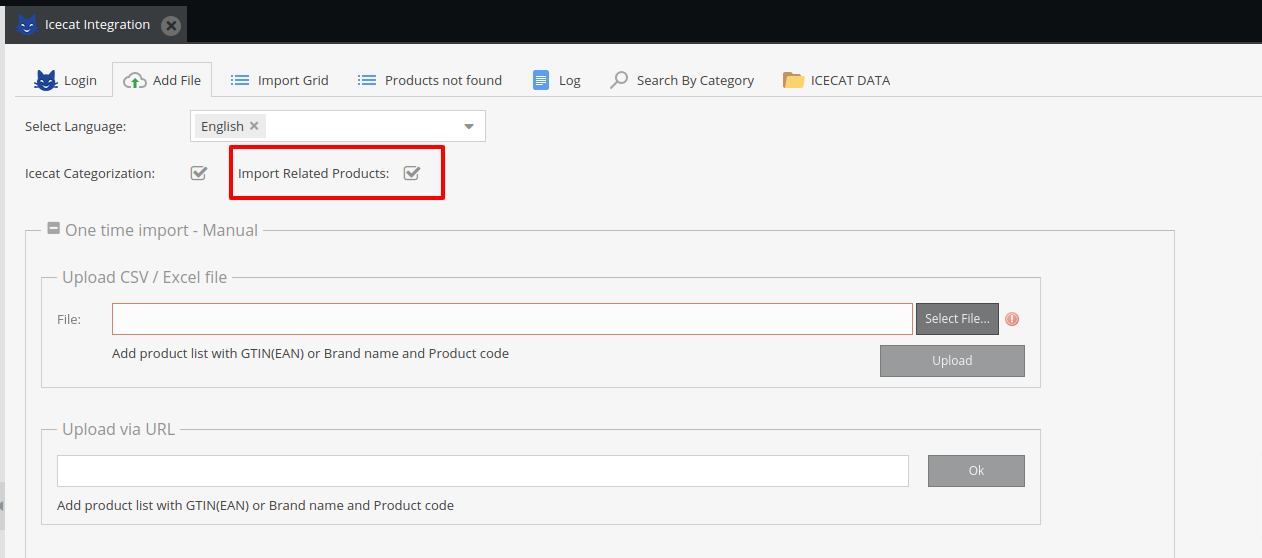
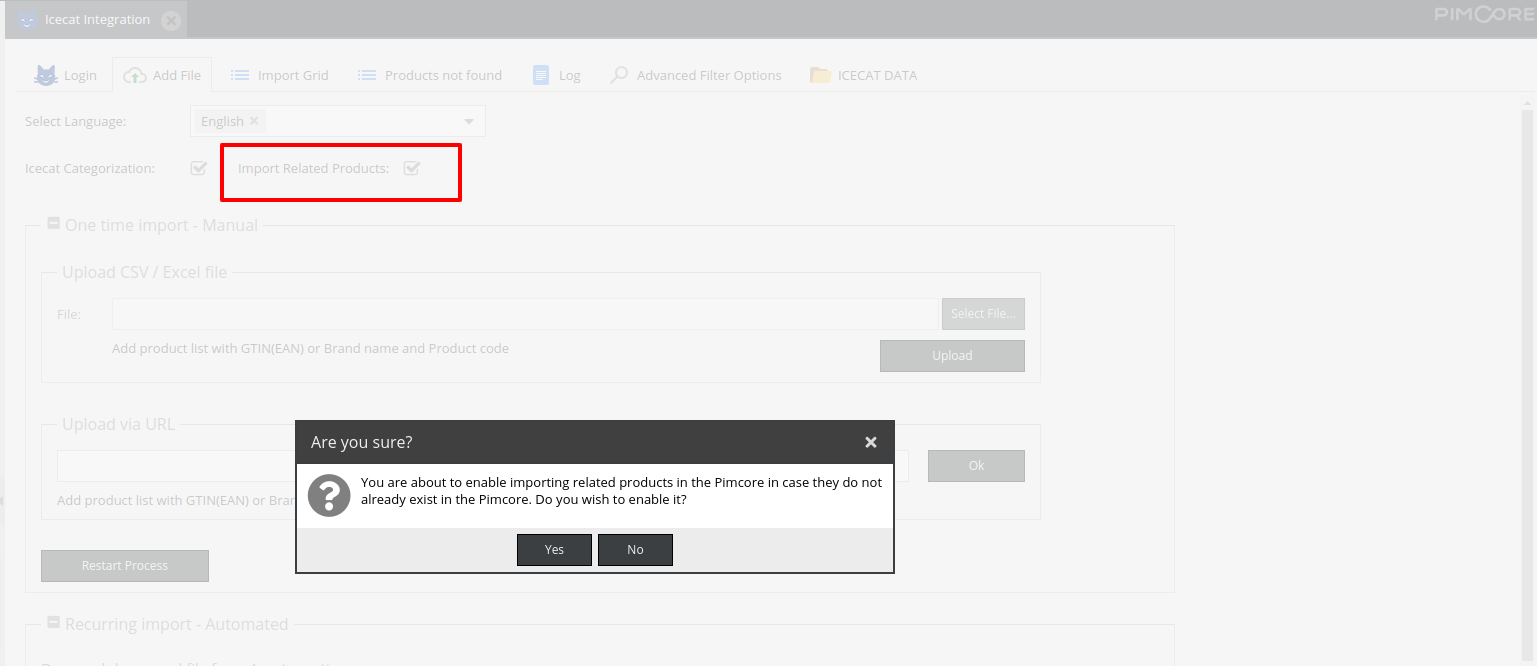
documentaion for v3

diff --git a/src/Resources/public/js/pimcore/helper.js b/src/Resources/public/js/pimcore/helper.js
@@ -1,14 +1,11 @@
 pimcore.registerNS("pimcore.plugin.iceCatHelper");
 pimcore.plugin.iceCatHelper = Class.create({
     initialize: function (parent) {
-        // this.getPanel();
         this.uploadPanel = new pimcore.plugin.iceCatUploadFilePanel();
         this.importGridPanel = new pimcore.plugin.iceCatImportGridPanel();
-        // this.runningProcessesPanel = new pimcore.plugin.iceCatRunningProcessesPanel();
         this.unfetchedProductGrid = new pimcore.plugin.unfetchedProductGrid();
         this.applicationLogGridPanel = new pimcore.plugin.iceCatApplicationLogGridPanel();
         this.searchPanel = new pimcore.plugin.iceCatSearchPanel(this.uploadPanel);
-        //this.cronPanel = new pimcore.plugin.iceCatCronPanelPanel();
     },
     addFileTabIndex: 1,
     intervalObj: '',
@@ -29,28 +26,28 @@ pimcore.plugin.iceCatHelper = Class.create({
             ufp.add(this.applicationLogGridPanel.getTabPanel());
         }
 
-        // if (!ufp.child('#iceCatBundle_cronPanel')) {
-        //     ufp.add(this.cronPanel.getPanel());
+        // if(this.uploadPanel.getConfigData() && this.uploadPanel.getConfigData().showSearchPanel !== "undefined" 
+        // && this.uploadPanel.getConfigData().showSearchPanel) {
+        //     if (!ufp.child('#iceCatBundle_searchPanel')) {
+        //         ufp.add(this.searchPanel.getPanel());
+        //     }
         // }
-
-        if(this.uploadPanel.getConfigData() && this.uploadPanel.getConfigData().showSearchPanel !== "undefined" 
-        && this.uploadPanel.getConfigData().showSearchPanel) {
-            if (!ufp.child('#iceCatBundle_searchPanel')) {
-                ufp.add(this.searchPanel.getPanel());
-            }
-        }
         
+        if (!ufp.child('#iceCatBundle_searchPanel')) {
+            ufp.add(this.searchPanel.getPanel());
+        }
 
         ufp.child('#iceCatBundle_uploadFilePanel').tab.show();
         ufp.child('#iceCatBundle_importGridPanel').tab.show();
         ufp.child('#icecatApplicationLoggerPanel').tab.show();
         ufp.child('#iceCatBundle_unfetchedProductGrid').tab.show();
-        // ufp.child('#iceCatBundle_cronPanel').tab.show();
 
-        if(this.uploadPanel.getConfigData() && this.uploadPanel.getConfigData().showSearchPanel !== "undefined" 
-        && this.uploadPanel.getConfigData().showSearchPanel) {
-            ufp.child('#iceCatBundle_searchPanel').tab.show();
-        }
+        // if(this.uploadPanel.getConfigData() && this.uploadPanel.getConfigData().showSearchPanel !== "undefined" 
+        // && this.uploadPanel.getConfigData().showSearchPanel) {
+        //     ufp.child('#iceCatBundle_searchPanel').tab.show();
+        // }
+
+        ufp.child('#iceCatBundle_searchPanel').tab.show();
 
         Ext.Ajax.request({
             url: Routing.generate('icecat_check_product_count'),
@@ -134,10 +131,8 @@ pimcore.plugin.iceCatHelper = Class.create({
                     loginButtonEle.prop('disabled', false);
                     this.hidePanels();
                 } else {
-                    //loginMsgEle.html('<p style="color:green">Logged In Successfully</p>');
                     loginMsgEle.html('');
                     loginMsgEle.show();
-                    //loginButtonEle.prop('disabled', true);
                     loginScreen.hide();
                     logoutScreen.show();
                     this.showPanels();
@@ -254,9 +249,6 @@ pimcore.plugin.iceCatHelper = Class.create({
                     let ap = new pimcore.plugin.IceCatActiveCreationProcesses('', 'processing', 'processingProgressBarFieldset');
                     ap.refreshTask.start();
                 }.bind(this), 2000);
-                // setTimeout(function () {
-                //     this.getOtherInfo()
-                // }.bind(this), 10000);
             }.bind(this),
             failure: function (err) {
 
@@ -270,10 +262,8 @@ pimcore.plugin.iceCatHelper = Class.create({
             success: function (response) {
                 let res = JSON.parse(response.responseText);
                 if (res.success == 'false') {
-                    // pimcore.helpers.showNotification('Failure', res.message, 'error');
                     return;
                 }
-
                 pimcore.helpers.closeObject(res.folderId);
                 pimcore.helpers.openObject(res.folderId, 'folder');
             }.bind(this),

diff --git a/src/Resources/public/js/pimcore/ice-cat-panel/searchPanel.js b/src/Resources/public/js/pimcore/ice-cat-panel/searchPanel.js
@@ -34,9 +34,9 @@ pimcore.plugin.iceCatSearchPanel = Class.create({
                 iconCls: "pimcore_icon_search",
             };
 
-            panelConfig.title = t("Search By Category");
+            panelConfig.title = t("Advanced Filter Options");
             panelConfig.id = "iceCatBundle_searchPanel";
-            panelConfig.tooltip = t("Search By Category");
+            panelConfig.tooltip = t("Advanced Filter Options");
             this.panel = new Ext.Panel(panelConfig);
 
             this.categoryStore = new Ext.data.JsonStore({
@@ -502,7 +502,7 @@ pimcore.plugin.iceCatSearchPanel = Class.create({
         this.categoryStore.reload();
 
         this.brandStore.getProxy().setExtraParam("language", value);
-        this.brandStore.getProxy().setExtraParam("category", value);
+        this.brandStore.getProxy().setExtraParam("category", this.searchpanel.getForm().findField("category").getValue());
         this.brandStore.reload();
 
         this.searchpanel.getForm().findField("brand[]").reset();

diff --git a/src/Resources/public/js/pimcore/ice-cat-panel/uploadFilePanel.js b/src/Resources/public/js/pimcore/ice-cat-panel/uploadFilePanel.js
@@ -479,7 +479,7 @@ pimcore.plugin.iceCatUploadFilePanel = Class.create({
                                                 {
                                                     xtype: "combobox",
                                                     id: "brand_name_cron_Icecat",
-                                                    fieldLabel: 'Brand',
+                                                    fieldLabel: 'Brand Name',
                                                     triggerAction: 'all',
                                                     store: this.classFieldsStore,
                                                     displayField: 'title',

diff --git a/src/Services/SearchService.php b/src/Services/SearchService.php
@@ -3,6 +3,7 @@
 namespace IceCatBundle\Services;
 
 use Pimcore\Tool;
+use IceCatBundle\Model\Configuration;
 use Symfony\Component\HttpFoundation\Request;
 
 class SearchService extends AbstractService
@@ -23,17 +24,22 @@ class SearchService extends AbstractService
      */
     public function getSearchLanguages()
     {
+        $config = Configuration::load();
         $data = [];
-        $activatedLanguage = Tool::getValidLanguages();
+        $activatedLanguage = $config->getLanguages();
         foreach ($activatedLanguage as $lang) {
-            $sql = "SELECT COUNT(*) as c FROM object_localized_icecat_category_{$lang} WHERE trim(name) != ''";
-            $result = \Pimcore\Db::get()->fetchAssoc($sql);
-            if ((int)$result['c'] !== 0) {
-                $data[] = [
-                    'key' => $lang,
-                    'value' => \Locale::getDisplayLanguage($lang)
-                ];
-            }
+            $data[] = [
+                'key' => $lang,
+                'value' => \Locale::getDisplayLanguage($lang)
+            ];
+            // $sql = "SELECT COUNT(*) as c FROM object_localized_icecat_category_{$lang} WHERE trim(name) != ''";
+            // $result = \Pimcore\Db::get()->fetchAssoc($sql);
+            // if ((int)$result['c'] !== 0) {
+            //     $data[] = [
+            //         'key' => $lang,
+            //         'value' => \Locale::getDisplayLanguage($lang)
+            //     ];
+            // }
         }
 
         return $data;

diff --git a/src/Controller/DefaultController.php b/src/Controller/DefaultController.php
@@ -264,7 +264,7 @@ class DefaultController extends FrontendController
                         <td>{$executionType}</td>
                     </tr>
                     <tr>
-                        <th>Detail log file</th>
+                        <th>Detailed log file</th>
                         <td><a href=\"/admin/icecat/download-last-import-log\">Download</a></td>
                     </tr>
 

diff --git a/doc/plugin_v3.md b/doc/plugin_v3.md
@@ -17,48 +17,66 @@ $ bin/console doctrine:migrations:migrate --prefix=IceCatBundle\\Migrations
 
 **Addition of new fields in import**
 
-Reviews import
+<ins>Reviews</ins>
 
+Icecat product's reviews are now part of the import process. 
 ![img1](./images/reviews.png)
 
-Product Stories import
+<ins>Product Stories</ins>
 
+Products stories URL(s) are now imported along with the nice preview.
 ![img1](./images/product-stories.png)
 
-Related Products import
+<ins>Videos</ins>
 
-We have provided a checkbox to switch on / off related products import. 
+Video field is changed from type video to many to many relation. This is done to enable the import process to download and attach multiple videos if any product has. 
+![img1](./images/videos.png)
+
+<ins>Related Products</ins>
+
+Related products are now part of import process with an extra configuration on the Icecat screen. 
 ![img1](./images/import-related-product-flag.png)
 
-If its ON and if the related product is not present already, Pimcore will create that product on the fly and associate it.
-If its OFF, Pimcore will not create any related product on the fly. It will only associate those related products which are present and skip the ones which are missing. 
-
+By default, import process only checks if the related products already exists in Pimcore and attaches them to product. With this configuration enabled, import will also create the related products on the fly which don't exists.
 ![img1](./images/related-products.png)
 
 
-Change video field type to Many to many relation.
+**Advanced filter options**
 
-![img1](./images/videos.png)
-
-**More filter options added**
-
-Additional filters added on Icecat filter screen
-
+Additional filters are added on Icecat filter screen to enable user to search for products more easily and efficiently. 
 ![img1](./images/filter-options.png)
 
-**Icecat links added on login screen**
+**Icecat links on login screen**
 
-Added Icecat links to register new user, forgot password and contact us.
-
+Helpful links are included on login screen to easily navigate user to Icecat's user registration page, forgot password page and contact us page.
 ![img1](./images/redirection-links.png)
 
 **Overwritable fields**
 
 Provided users the ability to not overwrite product fields while (re)importing products from Icecat.
-Whenever user makes any updates to Icecat class object fields, change logs get recorded in Pimcore and while re-importing Pimcore make sure to not overwrite those fields again.
+Whenever user makes any updates to Icecat class objects, change logs gets recorded in Pimcore and when re-importing import process makes sure to not overwrite those fields data.
 
 All the change logs can be seen under "Icecat overwritten fields log" folder.
-
 ![img1](./images/overwritable-fields.png)
 
-At any point in time, user can delete (all / some) log entries from the folder making those fields overwritable again.
+In order to make those fields overwritable again, just delete the log entries from the folder and data will be reimported.
+
+**Recurring Import**
+
+A new section is added on icecat screen to allow users to set automated recurring import from Icecat.
+Multiple options are provided like users can either save any excel file with list of GTINs / Product code and Brand combinations or can set their Product class fields mapping to pick list of products from there which needs to be imported from Icecat.
+Users can set the schedule of recurring import job as cron expression or can also do a manual start. Running job can be cancelled at any time. 
+A detailed summary of the last executed job shows up when the job finishes.
+![img1](./images/recurring-import.png)
+
+Its required to set the following command in crontab to make sure the scheduler works properly. 
+
+```bash
+*/5 * * * * /your/project/bin/console icecat:recurring-import
+```
+Keep in mind, that the cron job has to run as the same user as the web interface to avoid permission issues (eg. `www-data`).
+
+**Single product update**
+
+Provided option on the object toolbar to update single product from Icecat.
+![img1](./images/single-product-update.png)

diff --git a/README.md b/README.md
@@ -22,7 +22,8 @@ To install this plugin use following commands:
 - Addition of new fields in import
 - Enhanced filtering
 - Overwritable fields
-- Background job and scheduler
+- Recurring import as background job
+- Single product update
 
 [Click here to see full details for v3.0.0](./doc/plugin_v3.md)
 
